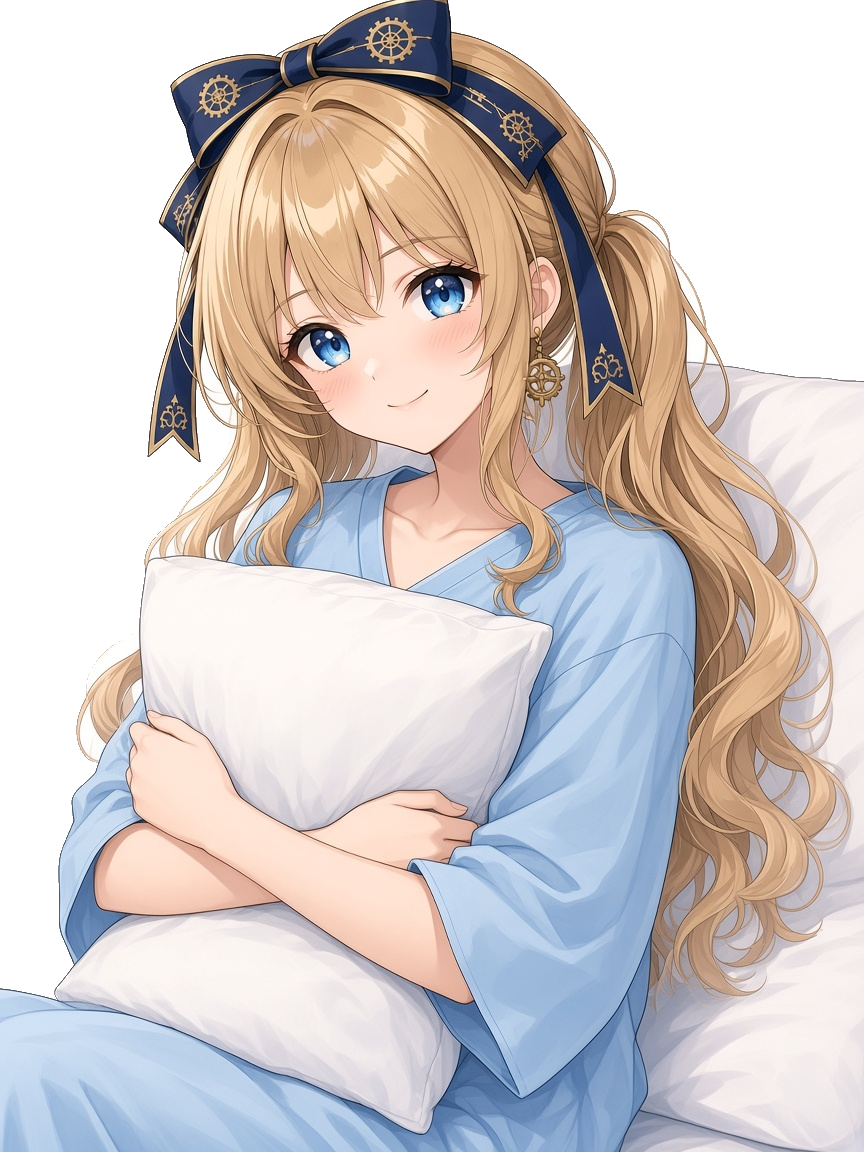
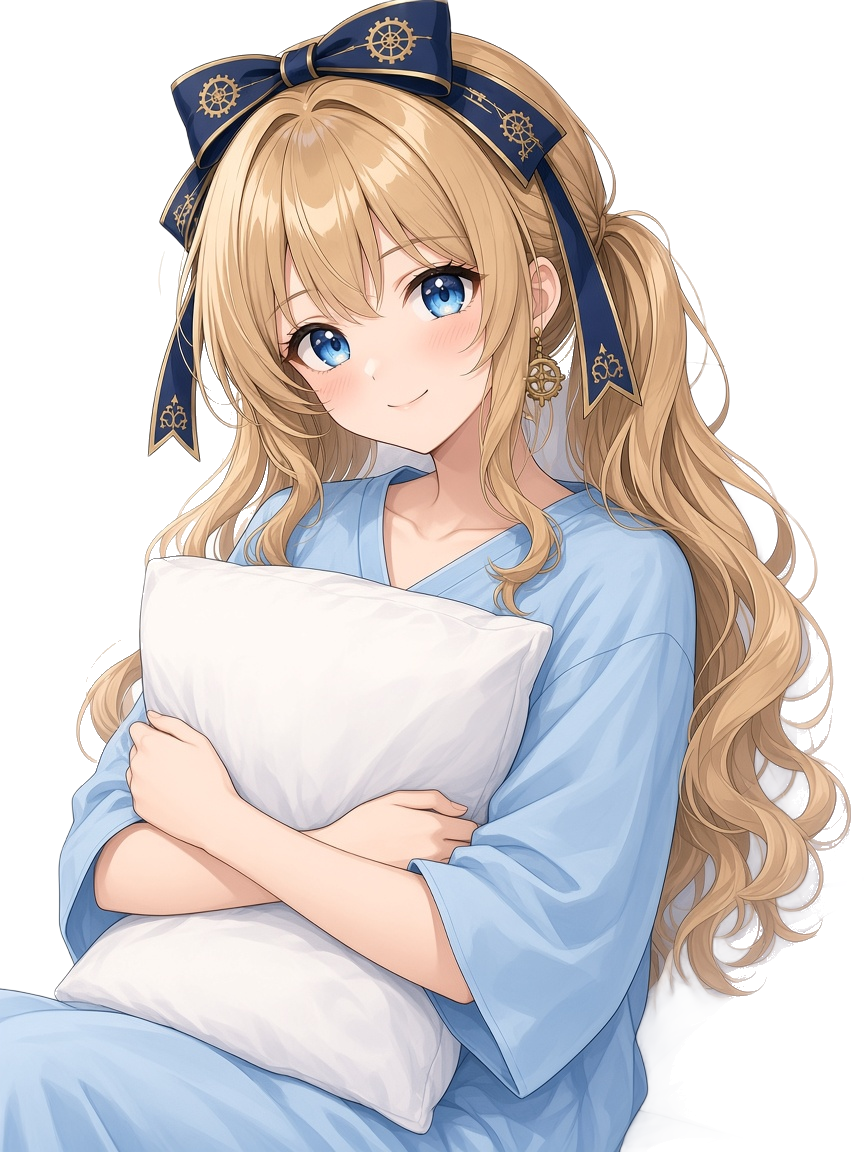
Recut the heroine portraits so hair gaps are transparent.
Edge flood-fill left the white pockets inside the hair line. An anime matte removes those islands and keeps the shirt, cuffs, mask, blanket, and pillows.

diff --git a/tools/cutout_portraits.py b/tools/cutout_portraits.py
@@ -1,9 +1,13 @@
 #!/usr/bin/env python3
-"""把立绘四周的近白背景抠成透明，衬衫、口罩、毯子和枕头这种内部的白色留下。
+"""把立绘白底抠成透明，并清掉发丝线稿围住的近白背景。
 
-只从图片四边开始漫水。贴着背景的发丝白边会一起去掉：阈值放宽到
-连着背景的浅白像素，再把轮廓往里收大约 1 像素，最后把剩下的半透明边
-按「原先叠在白底上」还原颜色，避免灰底上还留一圈白边。
+边缘漫水够不到这些封闭的白块（外圈有一圈细棕色线）。这里先用 rembg 的
+isnet-anime 得到人物轮廓，再丢掉「邻居主要是头发或透明、又不贴着皮肤 /
+制服 / 大块白布」的近白连通块。衬衫、袖口、领口、口罩、毯子、枕头、病号服
+贴着皮肤或蓝布，会留下来。离人物较远的火花和头晕云纹，用原来的边缘漫水
+把它们从白底里捡回来。
+
+依赖：pip install "rembg[cpu]" scipy
 
 用法：
     python3 tools/cutout_portraits.py 输入目录 输出目录
@@ -12,138 +16,177 @@
 from __future__ import annotations
 
 import sys
-from collections import deque
 from pathlib import Path
 
+import numpy as np
 from PIL import Image
+from scipy import ndimage
 
 
-def _chroma(r: int, g: int, b: int) -> int:
-	return max(r, g, b) - min(r, g, b)
+def _clean_edges(orig: np.ndarray, alpha: np.ndarray, protect: np.ndarray) -> tuple[np.ndarray, np.ndarray]:
+	"""清掉贴着轮廓的淡白半透明边。有颜色的发丝保持原色，不做白底反解。"""
+	r = orig[:, :, 0].astype(np.float32)
+	g = orig[:, :, 1].astype(np.float32)
+	b = orig[:, :, 2].astype(np.float32)
+	mx = np.maximum(np.maximum(r, g), b)
+	mn = np.minimum(np.minimum(r, g), b)
+	sat = (mx - mn) / np.maximum(mx, 1.0)
+	lum = (r + g + b) / 3.0
+	pale = (lum >= 198.0) & (sat <= 0.12)
+	alpha = alpha.copy()
+	kill = pale & (alpha > 0) & (alpha < 235) & ~protect
+	alpha[kill] = 0
+	# 再收一圈已经贴着透明区的淡白，衬衫和口罩在 protect 里。
+	touch = ndimage.binary_dilation(alpha == 0, iterations=1) & pale & (alpha > 0) & ~protect
+	alpha[touch] = 0
+	rgb = orig.copy()
+	rgb[alpha == 0] = 0
+	return rgb, alpha
 
 
-def _is_core_bg(r: int, g: int, b: int) -> bool:
-	# 背景几乎是纯白。枕头高光偏暖，进不了这一档。
-	return min(r, g, b) >= 246 and _chroma(r, g, b) <= 12
+def _edge_flood_foreground(orig: np.ndarray) -> np.ndarray:
+	"""从四边漫过近白，得到「旧方法会留下」的前景。用来捡火花和云纹。"""
+	r = orig[:, :, 0].astype(np.int16)
+	g = orig[:, :, 1].astype(np.int16)
+	b = orig[:, :, 2].astype(np.int16)
+	mx = np.maximum(np.maximum(r, g), b)
+	mn = np.minimum(np.minimum(r, g), b)
+	bg = (mn >= 246) & ((mx - mn) <= 12)
+	# 贴着画面边缘的近白是背景。线稿围住的白块和有颜色的火花不在这里。
+	structure = np.ones((3, 3), bool)
+	lab, _n = ndimage.label(bg, structure=structure)
+	edge_ids = np.unique(np.concatenate([lab[0, :], lab[-1, :], lab[:, 0], lab[:, -1]]))
+	edge_ids = edge_ids[edge_ids != 0]
+	reached = np.isin(lab, edge_ids)
+	return ~reached
 
 
-def _is_fringe_bg(r: int, g: int, b: int) -> bool:
-	# 发丝之间、贴着白底的淡白抗锯齿。必须已经连着背景才会被收进来。
-	return min(r, g, b) >= 226 and _chroma(r, g, b) <= 22
+def _drop_enclosed_white(orig: np.ndarray, alpha: np.ndarray) -> np.ndarray:
+	"""去掉发丝之间、线稿围住的近白背景。返回要变成透明的蒙版。"""
+	r = orig[:, :, 0].astype(np.float32)
+	g = orig[:, :, 1].astype(np.float32)
+	b = orig[:, :, 2].astype(np.float32)
+	mx = np.maximum(np.maximum(r, g), b)
+	mn = np.minimum(np.minimum(r, g), b)
+	sat = (mx - mn) / np.maximum(mx, 1.0)
+	lum = (r + g + b) / 3.0
+
+	cand = (lum >= 178.0) & (sat <= 0.105) & (mx >= 170.0) & (alpha > 18)
+	skin_raw = (
+		(r > 175.0) & (b > 145.0) & ((r - g) > 22.0) & ((g - b) < 22.0) & ((r - b) > 28.0)
+		& (sat > 0.14) & (sat < 0.45) & (lum > 160.0) & (lum < 242.0) & ~cand
+	)
+	slab, sn = ndimage.label(skin_raw)
+	skin = np.zeros(cand.shape, bool)
+	if sn:
+		sizes = ndimage.sum(skin_raw, slab, range(1, sn + 1))
+		for i, sz in enumerate(sizes, start=1):
+			if sz >= 140:
+				skin[slab == i] = True
+	hair = (
+		(r > 80.0) & (g > 48.0) & (b > 15.0)
+		& (g > b + 14.0) & (r + 36.0 >= g) & ((r - b) > 22.0)
+		& (sat > 0.09) & (sat < 0.80)
+		& (lum > 32.0) & (lum < 250.0) & ~cand & ~skin
+	)
+	blue = (
+		(b > r + 6.0) & (b + 8.0 >= g) & (sat > 0.09) & (lum > 12.0) & (lum < 230.0)
+		& ~cand & ~skin
+	)
+
+	lab, n = ndimage.label(cand)
+	drop = np.zeros(cand.shape, bool)
+	for i in range(1, n + 1):
+		comp = lab == i
+		cc = int(comp.sum())
+		if cc < 12:
+			continue
+		ring = ndimage.binary_dilation(comp, iterations=2) & ~comp
+		hair_n = int((ring & hair).sum())
+		skin_n = int((ring & skin).sum())
+		blue_n = int((ring & blue).sum())
+		trans_n = int((ring & (alpha <= 18)).sum())
+		other_n = int(ring.sum()) - hair_n - skin_n - blue_n - trans_n
+		if other_n < 0:
+			other_n = 0
+		touches_skin = skin_n > 25
+		# 贴着制服的衬衫、袖口。发缝两边都是头发，蓝布接触比头发少。
+		body_cloth = blue_n > 80 and blue_n > hair_n * 1.15 and cc > 120
+		# 枕头、毯子、病号服：大块浅色，皮肤或蓝布比头发多。
+		big_prop = cc > 2500 and (blue_n + skin_n) > hair_n
+		kill = (
+			(not touches_skin) and (not body_cloth) and (not big_prop)
+			and hair_n > 20 and hair_n > blue_n * 1.05 and hair_n > other_n * 0.7
+			and cc < 16000
+		)
+		if kill:
+			drop[comp] = True
+
+	# 线稿最多大约 3 像素。只往头发那边扩，不吃领口和徽章上的高光。
+	hair_dist = ndimage.distance_transform_edt(~hair)
+	near = ndimage.binary_dilation(drop, iterations=3) & cand & ~drop
+	near &= ~ndimage.binary_dilation(skin, iterations=2)
+	near &= ~ndimage.binary_dilation(blue, iterations=1)
+	near &= hair_dist <= 8.0
+	drop |= near
+	# 只保护贴着皮肤或蓝布的浅色（衬衫、袖口、口罩、枕头）。
+	# 发丝边上没被主规则丢掉的淡白不在里面。
+	kept = cand & ~drop
+	cloth = ndimage.binary_dilation(skin | blue, iterations=3)
+	protect = ndimage.binary_dilation((kept & cloth) | skin | blue, iterations=1)
+	return drop, protect
 
 
-def _decontaminate(r: int, g: int, b: int, a: int) -> tuple[int, int, int, int]:
-	"""半透明像素按叠在白底上还原前景色：c = (观测 - (1-a)*白) / a。"""
-	if a <= 0:
-		return (r, g, b, 0)
-	if a >= 255:
-		return (r, g, b, 255)
-	af = a / 255.0
-	out = []
-	for c in (r, g, b):
-		v = (c / 255.0 - (1.0 - af)) / af
-		if v < 0.0:
-			v = 0.0
-		elif v > 1.0:
-			v = 1.0
-		out.append(int(round(v * 255.0)))
-	return (out[0], out[1], out[2], a)
-
-
-def cutout(src: Image.Image) -> Image.Image:
-	im = src.convert("RGBA")
-	w, h = im.size
-	pix = im.load()
-	bg = bytearray(w * h)
-	q: deque[tuple[int, int]] = deque()
-
-	def try_push(x: int, y: int, fringe: bool) -> None:
-		if not (0 <= x < w and 0 <= y < h):
-			return
-		i = y * w + x
-		if bg[i]:
-			return
-		r, g, b, _a = pix[x, y]
-		if not (_is_core_bg(r, g, b) or (fringe and _is_fringe_bg(r, g, b))):
-			return
-		bg[i] = 1
-		q.append((x, y))
-
-	for x in range(w):
-		try_push(x, 0, False)
-		try_push(x, h - 1, False)
-	for y in range(h):
-		try_push(0, y, False)
-		try_push(w - 1, y, False)
-
-	# 8 邻域。纯白先铺开，贴着它的淡白发边再跟着进来。
-	nbrs = ((1, 0), (-1, 0), (0, 1), (0, -1), (1, 1), (1, -1), (-1, 1), (-1, -1))
-	while q:
-		x, y = q.popleft()
-		for dx, dy in nbrs:
-			try_push(x + dx, y + dy, True)
-
-	# 贴着背景再收两圈浅色。第一圈连淡金发边一起收，第二圈只收还接近纯白的残边。
-	# 衬衫、口罩、毯子在身体里面，够不着。
-	erode = bytearray(bg)
-	for min_thr, chroma_thr in ((168, 42), (214, 28)):
-		grown = bytearray(erode)
-		for y in range(h):
-			row = y * w
-			for x in range(w):
-				i = row + x
-				if erode[i]:
-					continue
-				touch = False
-				for dx, dy in nbrs:
-					nx, ny = x + dx, y + dy
-					if 0 <= nx < w and 0 <= ny < h and erode[ny * w + nx]:
-						touch = True
-						break
-				if not touch:
-					continue
-				r, g, b, _a = pix[x, y]
-				if min(r, g, b) >= min_thr and _chroma(r, g, b) <= chroma_thr:
-					grown[i] = 1
-		erode = grown
-	edge: list[tuple[int, int]] = []
-	for y in range(h):
-		row = y * w
-		for x in range(w):
-			if erode[row + x]:
+def _restore_detached(orig: np.ndarray, alpha: np.ndarray) -> np.ndarray:
+	"""捡回离身体远的火花、头晕云纹。发缝里的白块离头发近，不会进来。"""
+	kept = _edge_flood_foreground(orig)
+	fg = alpha > 40
+	dist = ndimage.distance_transform_edt(~fg)
+	take = kept & (alpha < 12) & (dist > 16.0)
+	lab, n = ndimage.label(take)
+	keep = np.zeros(take.shape, bool)
+	if n:
+		sizes = ndimage.sum(take, lab, range(1, n + 1))
+		for i, sz in enumerate(sizes, start=1):
+			if not (8 <= sz <= 2500):
 				continue
-			for dx, dy in nbrs:
-				nx, ny = x + dx, y + dy
-				if 0 <= nx < w and 0 <= ny < h and erode[ny * w + nx]:
-					edge.append((x, y))
-					break
+			ys, xs = np.where(lab == i)
+			if (xs.max() - xs.min()) < 180 and (ys.max() - ys.min()) < 180:
+				keep[lab == i] = True
+	return keep
 
-	for y in range(h):
-		row = y * w
-		for x in range(w):
-			i = row + x
-			r, g, b, _a = pix[x, y]
-			if erode[i]:
-				pix[x, y] = (r, g, b, 0)
 
-	# 新的轮廓收成半透明，并去掉白底混进去的颜色。
-	for x, y in edge:
-		r, g, b, _a = pix[x, y]
-		# 越接近白，越当成还混着背景。
-		m = min(r, g, b)
-		if m >= 210 and _chroma(r, g, b) <= 28:
-			a = int((248 - m) * 255 / 50)
-			a = 40 if a < 40 else 210 if a > 210 else a
-			pix[x, y] = _decontaminate(r, g, b, a)
-		else:
-			pix[x, y] = _decontaminate(r, g, b, 232)
-	return im
+def cutout(src: Image.Image, session) -> Image.Image:
+	from rembg import remove
+
+	rgb_im = src.convert("RGB")
+	orig = np.array(rgb_im)
+	matted = remove(rgb_im, session=session)
+	rgba = np.array(matted.convert("RGBA"))
+	alpha = rgba[:, :, 3].copy()
+	drop, protect = _drop_enclosed_white(orig, alpha)
+	alpha = alpha.copy()
+	alpha[drop] = 0
+	rgb, alpha = _clean_edges(orig, alpha, protect)
+	restore = _restore_detached(orig, alpha)
+	out = np.zeros((*orig.shape[:2], 4), np.uint8)
+	out[:, :, :3] = rgb
+	out[:, :, 3] = alpha
+	out[restore, :3] = orig[restore]
+	out[restore, 3] = 255
+	out[out[:, :, 3] == 0, :3] = 0
+	return Image.fromarray(out, "RGBA")
 
 
 def main() -> None:
 	if len(sys.argv) != 3:
 		print("用法: python3 tools/cutout_portraits.py 输入目录 输出目录", file=sys.stderr)
 		sys.exit(2)
+	try:
+		from rembg import new_session
+	except ImportError:
+		print("需要 rembg：pip install \"rembg[cpu]\"", file=sys.stderr)
+		sys.exit(1)
 	src_dir = Path(sys.argv[1])
 	dst_dir = Path(sys.argv[2])
 	dst_dir.mkdir(parents=True, exist_ok=True)
@@ -151,16 +194,14 @@ def main() -> None:
 	if not files:
 		print("输入目录里没有 png", file=sys.stderr)
 		sys.exit(1)
+	session = new_session("isnet-anime")
 	for path in files:
-		out = cutout(Image.open(path))
+		out = cutout(Image.open(path), session)
 		dest = dst_dir / path.name
 		out.save(dest, "PNG")
-		w, h = out.size
-		transparent = 0
-		for px in out.getdata():
-			if px[3] == 0:
-				transparent += 1
-		print(f"{path.name}: {w}x{h} 透明 {transparent / (w * h):.1%}")
+		arr = np.array(out)
+		transparent = int((arr[:, :, 3] == 0).sum())
+		print(f"{path.name}: {out.size[0]}x{out.size[1]} 透明 {transparent / arr[:, :, 3].size:.1%}")
 
 
 if __name__ == "__main__":

diff --git a/README.md b/README.md
@@ -105,7 +105,7 @@ godot --headless --path . --script res://tools/build_ui_assets.gd -- --pack "../
 
 晚间城区的背景是作者为本项目生成的 AI 插画（奥术蒸汽朋克，16:9），放在 `assets/backgrounds/city/`，说明见同目录的 `SOURCE.txt`。路径写在 `data/evening.json` 的 `background` 里，不写死在代码里。住所可以按等级换图：阁楼用 `home_attic.jpg`，以后的公寓、宅邸、浮空庄园只要在住房条目上加 `background`，没有就继续用阁楼那张。这些图会缩小显示，导入时带 mipmap，地图和侧栏单独用线性过滤，不跟着界面的最近邻走。
 
-主角希雅的半身立绘也是同一套 AI 流程，放在 `assets/portraits/heroine/`（见 `SOURCE.txt`）。白底用 `tools/cutout_portraits.py` 从边缘抠掉。身体状态优先于情绪：住院、发烧、感冒、疲劳各用一张整图，健康时才按平静 / 乐观 / 悲观 / 狂热 / 恐慌换。对话的 `cry` 和结局的 `ecstatic` 也有整图。立绘不再带方格底和木框，角色外侧有一圈描边，颜色写在 `characters.json` 的 `outline`。别的角色没有图时仍用代码画的占位立绘，占位图没有描边。
+主角希雅的半身立绘也是同一套 AI 流程，放在 `assets/portraits/heroine/`（见 `SOURCE.txt`）。白底用 `tools/cutout_portraits.py` 抠掉：先用 rembg 的 isnet-anime 得到轮廓，再去掉发丝线稿围住的近白。衬衫、袖口、口罩、毯子和枕头留着。身体状态优先于情绪：住院、发烧、感冒、疲劳各用一张整图，健康时才按平静 / 乐观 / 悲观 / 狂热 / 恐慌换。对话的 `cry` 和结局的 `ecstatic` 也有整图。立绘不再带方格底和木框，角色外侧有一圈描边，颜色写在 `characters.json` 的 `outline`。别的角色没有图时仍用代码画的占位立绘，占位图没有描边。
 
 ## 存档
 
@@ -183,7 +183,7 @@ stock-life/
 │   ├── build_ui_assets.gd    # 从 Kenney UI Pack 生成界面贴图
 │   ├── simulate.gd           # 批量行情模拟与第一章策略对比
 │   ├── shot_evening.gd       # 把晚间城市地图画成 PNG（需要显示，不能用 --headless）
-│   └── cutout_portraits.py   # 从立绘边缘抠掉近白背景
+│   └── cutout_portraits.py   # 用 isnet-anime 抠立绘，并清掉发缝里的白底
 └── docs/GDD.md               # 设计文档
 ```
 
